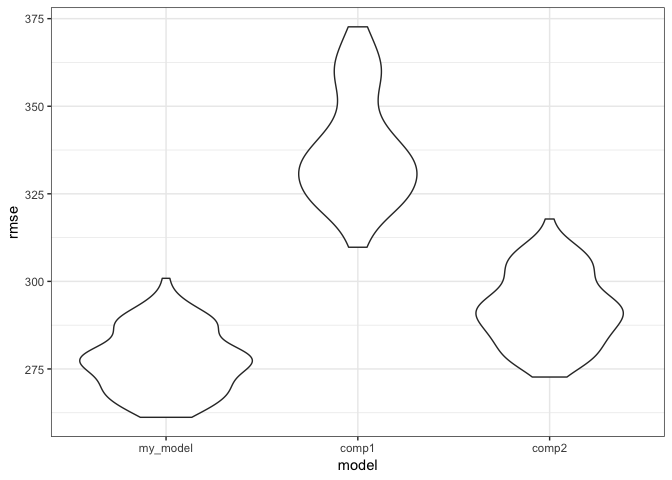
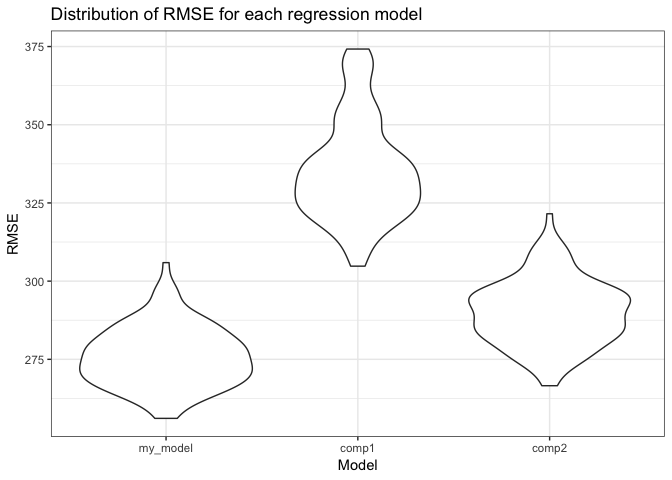
commentary on problem 2 CV. labeled plots.

diff --git a/HW_6.md b/HW_6.md
@@ -202,7 +202,10 @@ The figure above shows the odds ratios for case resolution of white vs. non-whit
 ### Problem 2
 
 ``` r
-birthweight = read_csv('./data/problem2/birthweight.csv')
+birthweight_tidy = read_csv('./data/problem2/birthweight.csv') %>%
+  mutate(babysex = fct_recode(as.character(babysex), 'Male' = '1', 'Female' = '2'),
+         mrace = fct_recode(as.character(mrace), 'White' = '1', 'Black' = '2', 'Asian' = '3', 'Puerto Rican' = '4'),
+         frace = fct_recode(as.character(frace), 'White' = '1', 'Black' = '2', 'Asian' = '3', 'Puerto Rican' = '4', 'Other' = '8'))
 ```
 
     ## Parsed with column specification:
@@ -216,28 +219,23 @@ birthweight = read_csv('./data/problem2/birthweight.csv')
     ## See spec(...) for full column specifications.
 
 ``` r
-birthweight_tidy = birthweight %>%
-  mutate(babysex = fct_recode(as.character(babysex), 'Male' = '1', 'Female' = '2'),
-         mrace = fct_recode(as.character(mrace), 'White' = '1', 'Black' = '2', 'Asian' = '3', 'Puerto Rican' = '4'),
-         frace = fct_recode(as.character(frace), 'White' = '1', 'Black' = '2', 'Asian' = '3', 'Puerto Rican' = '4', 'Other' = '8'))
-
-str(birthweight)
+str(birthweight_tidy)
 ```
 
     ## Classes 'tbl_df', 'tbl' and 'data.frame':    4342 obs. of  20 variables:
-    ##  $ babysex : int  2 1 2 1 2 1 2 2 1 1 ...
+    ##  $ babysex : Factor w/ 2 levels "Male","Female": 2 1 2 1 2 1 2 2 1 1 ...
     ##  $ bhead   : int  34 34 36 34 34 33 33 33 36 33 ...
     ##  $ blength : int  51 48 50 52 52 52 46 49 52 50 ...
     ##  $ bwt     : int  3629 3062 3345 3062 3374 3374 2523 2778 3515 3459 ...
     ##  $ delwt   : int  177 156 148 157 156 129 126 140 146 169 ...
     ##  $ fincome : int  35 65 85 55 5 55 96 5 85 75 ...
-    ##  $ frace   : int  1 2 1 1 1 1 2 1 1 2 ...
+    ##  $ frace   : Factor w/ 5 levels "White","Black",..: 1 2 1 1 1 1 2 1 1 2 ...
     ##  $ gaweeks : num  39.9 25.9 39.9 40 41.6 ...
     ##  $ malform : int  0 0 0 0 0 0 0 0 0 0 ...
     ##  $ menarche: int  13 14 12 14 13 12 14 12 11 12 ...
     ##  $ mheight : int  63 65 64 64 66 66 72 62 61 64 ...
     ##  $ momage  : int  36 25 29 18 20 23 29 19 13 19 ...
-    ##  $ mrace   : int  1 2 1 1 1 1 2 1 1 2 ...
+    ##  $ mrace   : Factor w/ 4 levels "White","Black",..: 1 2 1 1 1 1 2 1 1 2 ...
     ##  $ parity  : int  3 0 0 0 0 0 0 0 0 0 ...
     ##  $ pnumlbw : int  0 0 0 0 0 0 0 0 0 0 ...
     ##  $ pnumsga : int  0 0 0 0 0 0 0 0 0 0 ...
@@ -245,53 +243,8 @@ str(birthweight)
     ##  $ ppwt    : int  148 128 137 127 130 115 105 119 105 145 ...
     ##  $ smoken  : num  0 0 1 10 1 0 0 0 0 4 ...
     ##  $ wtgain  : int  29 28 11 30 26 14 21 21 41 24 ...
-    ##  - attr(*, "spec")=List of 2
-    ##   ..$ cols   :List of 20
-    ##   .. ..$ babysex : list()
-    ##   .. .. ..- attr(*, "class")= chr  "collector_integer" "collector"
-    ##   .. ..$ bhead   : list()
-    ##   .. .. ..- attr(*, "class")= chr  "collector_integer" "collector"
-    ##   .. ..$ blength : list()
-    ##   .. .. ..- attr(*, "class")= chr  "collector_integer" "collector"
-    ##   .. ..$ bwt     : list()
-    ##   .. .. ..- attr(*, "class")= chr  "collector_integer" "collector"
-    ##   .. ..$ delwt   : list()
-    ##   .. .. ..- attr(*, "class")= chr  "collector_integer" "collector"
-    ##   .. ..$ fincome : list()
-    ##   .. .. ..- attr(*, "class")= chr  "collector_integer" "collector"
-    ##   .. ..$ frace   : list()
-    ##   .. .. ..- attr(*, "class")= chr  "collector_integer" "collector"
-    ##   .. ..$ gaweeks : list()
-    ##   .. .. ..- attr(*, "class")= chr  "collector_double" "collector"
-    ##   .. ..$ malform : list()
-    ##   .. .. ..- attr(*, "class")= chr  "collector_integer" "collector"
-    ##   .. ..$ menarche: list()
-    ##   .. .. ..- attr(*, "class")= chr  "collector_integer" "collector"
-    ##   .. ..$ mheight : list()
-    ##   .. .. ..- attr(*, "class")= chr  "collector_integer" "collector"
-    ##   .. ..$ momage  : list()
-    ##   .. .. ..- attr(*, "class")= chr  "collector_integer" "collector"
-    ##   .. ..$ mrace   : list()
-    ##   .. .. ..- attr(*, "class")= chr  "collector_integer" "collector"
-    ##   .. ..$ parity  : list()
-    ##   .. .. ..- attr(*, "class")= chr  "collector_integer" "collector"
-    ##   .. ..$ pnumlbw : list()
-    ##   .. .. ..- attr(*, "class")= chr  "collector_integer" "collector"
-    ##   .. ..$ pnumsga : list()
-    ##   .. .. ..- attr(*, "class")= chr  "collector_integer" "collector"
-    ##   .. ..$ ppbmi   : list()
-    ##   .. .. ..- attr(*, "class")= chr  "collector_double" "collector"
-    ##   .. ..$ ppwt    : list()
-    ##   .. .. ..- attr(*, "class")= chr  "collector_integer" "collector"
-    ##   .. ..$ smoken  : list()
-    ##   .. .. ..- attr(*, "class")= chr  "collector_double" "collector"
-    ##   .. ..$ wtgain  : list()
-    ##   .. .. ..- attr(*, "class")= chr  "collector_integer" "collector"
-    ##   ..$ default: list()
-    ##   .. ..- attr(*, "class")= chr  "collector_guess" "collector"
-    ##   ..- attr(*, "class")= chr "col_spec"
 
-To construct a regression model, I first included all variables and then removed individually those that were not significant predictors of birthweight. I ended up with the following model:
+To construct a regression model, I first included all variables (no interactions) and then removed individually those that were not significant predictors of birthweight. The full process can be seen in a previous commit. I ended up with the following model:
 
 ``` r
 my_model = lm(bwt ~ babysex + bhead + blength + delwt + mheight + mrace + ppwt + smoken, data = birthweight_tidy) # linear regression model for birthweight
@@ -335,7 +288,9 @@ birthweight_tidy %>%
   modelr::add_residuals(my_model) %>% # residual of observed bwt - predicted bwt
   ggplot(aes(x = pred, y = resid)) + # plot 
   geom_point() + 
-  geom_hline(yintercept = 0, col = 'red') # add line for residual of 0 to better see distribution of residuals
+  geom_hline(yintercept = 0, col = 'red') + # add line for residual of 0 to better see distribution of residuals
+  labs(x = 'Predicted birthweight',
+       y = 'Residuals')
 ```
 
 ![](HW_6_files/figure-markdown_github/unnamed-chunk-5-1.png)
@@ -343,28 +298,85 @@ birthweight_tidy %>%
 ``` r
 # comparison models
 comp_model_1 = lm(bwt ~ blength + gaweeks, data = birthweight_tidy) # comparison model 1
-comp_model_2 = lm(bwt ~ (bhead + blength + babysex)^3, data = birthweight_tidy) # comparison model 2 with all interaction terms 
+summary(comp_model_1)
 ```
+
+    ## 
+    ## Call:
+    ## lm(formula = bwt ~ blength + gaweeks, data = birthweight_tidy)
+    ## 
+    ## Residuals:
+    ##     Min      1Q  Median      3Q     Max 
+    ## -1709.6  -215.4   -11.4   208.2  4188.8 
+    ## 
+    ## Coefficients:
+    ##              Estimate Std. Error t value Pr(>|t|)    
+    ## (Intercept) -4347.667     97.958  -44.38   <2e-16 ***
+    ## blength       128.556      1.990   64.60   <2e-16 ***
+    ## gaweeks        27.047      1.718   15.74   <2e-16 ***
+    ## ---
+    ## Signif. codes:  0 '***' 0.001 '**' 0.01 '*' 0.05 '.' 0.1 ' ' 1
+    ## 
+    ## Residual standard error: 333.2 on 4339 degrees of freedom
+    ## Multiple R-squared:  0.5769, Adjusted R-squared:  0.5767 
+    ## F-statistic:  2958 on 2 and 4339 DF,  p-value: < 2.2e-16
+
+``` r
+comp_model_2 = lm(bwt ~ (bhead + blength + babysex)^3, data = birthweight_tidy) # comparison model 2 with all interaction terms 
+summary(comp_model_2)
+```
+
+    ## 
+    ## Call:
+    ## lm(formula = bwt ~ (bhead + blength + babysex)^3, data = birthweight_tidy)
+    ## 
+    ## Residuals:
+    ##      Min       1Q   Median       3Q      Max 
+    ## -1132.99  -190.42   -10.33   178.63  2617.96 
+    ## 
+    ## Coefficients:
+    ##                               Estimate Std. Error t value Pr(>|t|)    
+    ## (Intercept)                 -7176.8170  1264.8397  -5.674 1.49e-08 ***
+    ## bhead                         181.7956    38.0542   4.777 1.84e-06 ***
+    ## blength                       102.1269    26.2118   3.896 9.92e-05 ***
+    ## babysexFemale                6374.8684  1677.7669   3.800 0.000147 ***
+    ## bhead:blength                  -0.5536     0.7802  -0.710 0.478012    
+    ## bhead:babysexFemale          -198.3932    51.0917  -3.883 0.000105 ***
+    ## blength:babysexFemale        -123.7729    35.1185  -3.524 0.000429 ***
+    ## bhead:blength:babysexFemale     3.8781     1.0566   3.670 0.000245 ***
+    ## ---
+    ## Signif. codes:  0 '***' 0.001 '**' 0.01 '*' 0.05 '.' 0.1 ' ' 1
+    ## 
+    ## Residual standard error: 287.7 on 4334 degrees of freedom
+    ## Multiple R-squared:  0.6849, Adjusted R-squared:  0.6844 
+    ## F-statistic:  1346 on 7 and 4334 DF,  p-value: < 2.2e-16
 
 ``` r
 # test/train dataset for cross validation of models
 bwt_cv = birthweight_tidy %>%
-  crossv_mc(., 100) %>%
-  mutate(train = map(train, as_tibble),
+  crossv_mc(., n = 100) %>% # subset original dataset for cross validation
+  mutate(train = map(train, as_tibble), # create train and test subsets
          test = map(test, as_tibble)) %>%
-  mutate(my_model = map(train, ~lm(bwt ~ babysex + bhead + blength + delwt + mheight + mrace + ppwt + smoken, data = .x)),
-         comp1 = map(train, ~ lm(bwt ~ blength + gaweeks, data = .x)),
-         comp2 = map(train, ~ lm(bwt ~ (bhead + blength + babysex)^3, data = .x))) %>%
-  mutate(rmse_my_model    = map2_dbl(my_model, test, ~rmse(model = .x, data = .y)),
-         rmse_comp1 = map2_dbl(comp1, test, ~rmse(model = .x, data = .y)),
-         rmse_comp2 = map2_dbl(comp2, test, ~rmse(model = .x, data = .y)))
+  mutate(my_model = map(train, ~lm(bwt ~ babysex + bhead + blength + delwt + mheight + mrace + ppwt + smoken, data = .x)), # prediction using my model across each training subset
+         comp1 = map(train, ~ lm(bwt ~ blength + gaweeks, data = .x)), # prediction with comparison model 1
+         comp2 = map(train, ~ lm(bwt ~ (bhead + blength + babysex)^3, data = .x))) %>% # prediction with comparison model 2
+  mutate(rmse_my_model    = map2_dbl(my_model, test, ~rmse(model = .x, data = .y)), # RMSE for my model
+         rmse_comp1 = map2_dbl(comp1, test, ~rmse(model = .x, data = .y)), # RMSE for comparison model 1
+         rmse_comp2 = map2_dbl(comp2, test, ~rmse(model = .x, data = .y))) # RMSE for comparison model 2
 
+# visualizing the distribution of RMSE for each model 
 bwt_cv %>% 
   select(starts_with("rmse")) %>% 
   gather(key = model, value = rmse) %>% 
   mutate(model = str_replace(model, "rmse_", ""),
          model = fct_inorder(model)) %>% 
-  ggplot(aes(x = model, y = rmse)) + geom_violin()
+  ggplot(aes(x = model, y = rmse)) + 
+  geom_violin() + 
+  labs(x = 'Model',
+       y = 'RMSE',
+       title = 'Distribution of RMSE for each regression model')
 ```
 
 ![](HW_6_files/figure-markdown_github/unnamed-chunk-6-1.png)
+
+In comparing my model with the two given regressions according to their RMSE, my model appears to be superior, with RMSE values slightly lower than those of the second comparator model. This can be seen in the violin plot above. However, given how close in RMSE the second comparison model is to mine, it may be worth exploring including some of the compariso model's interaction terms in the model I propose.
